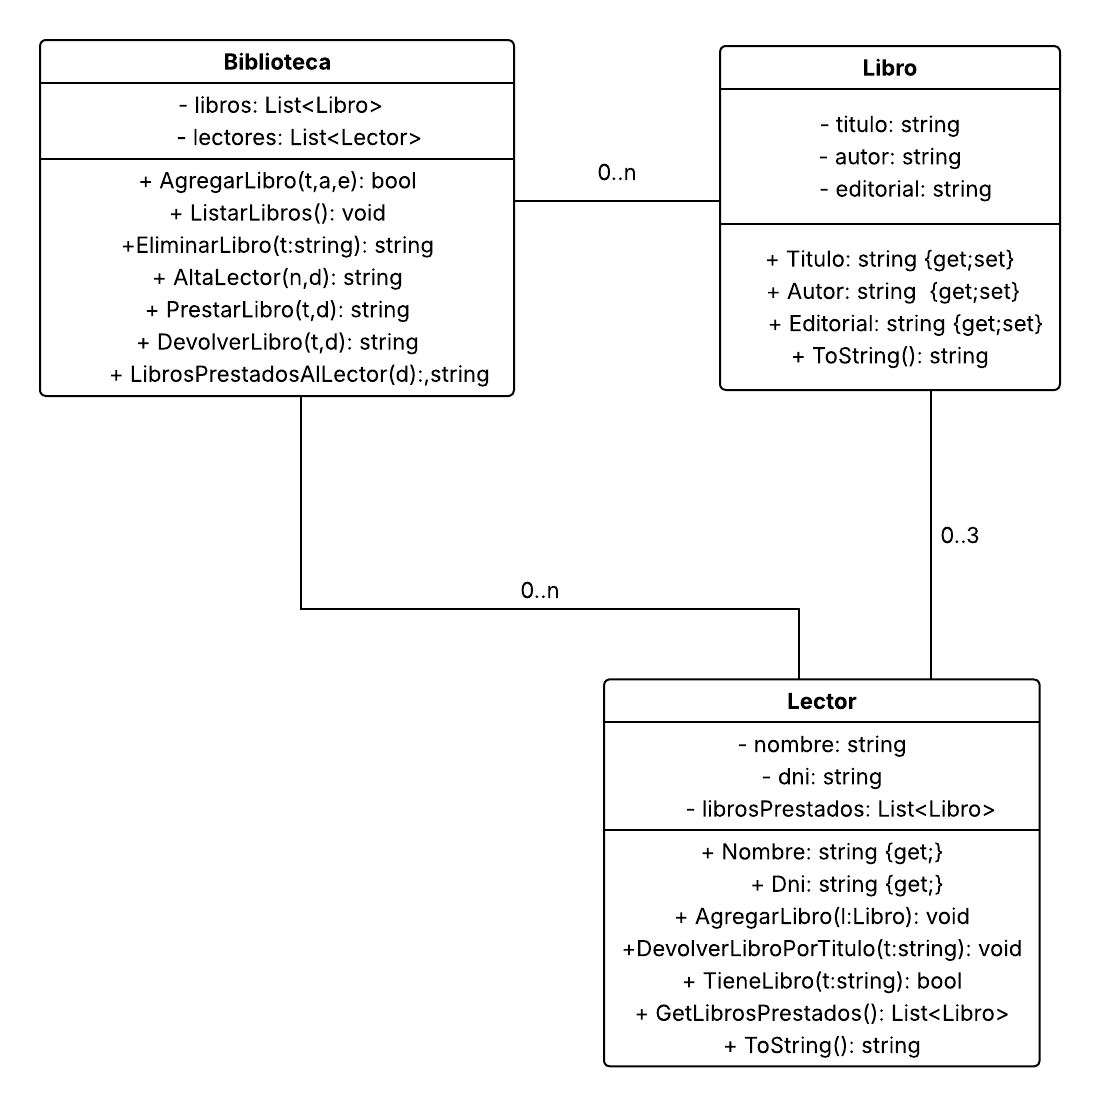
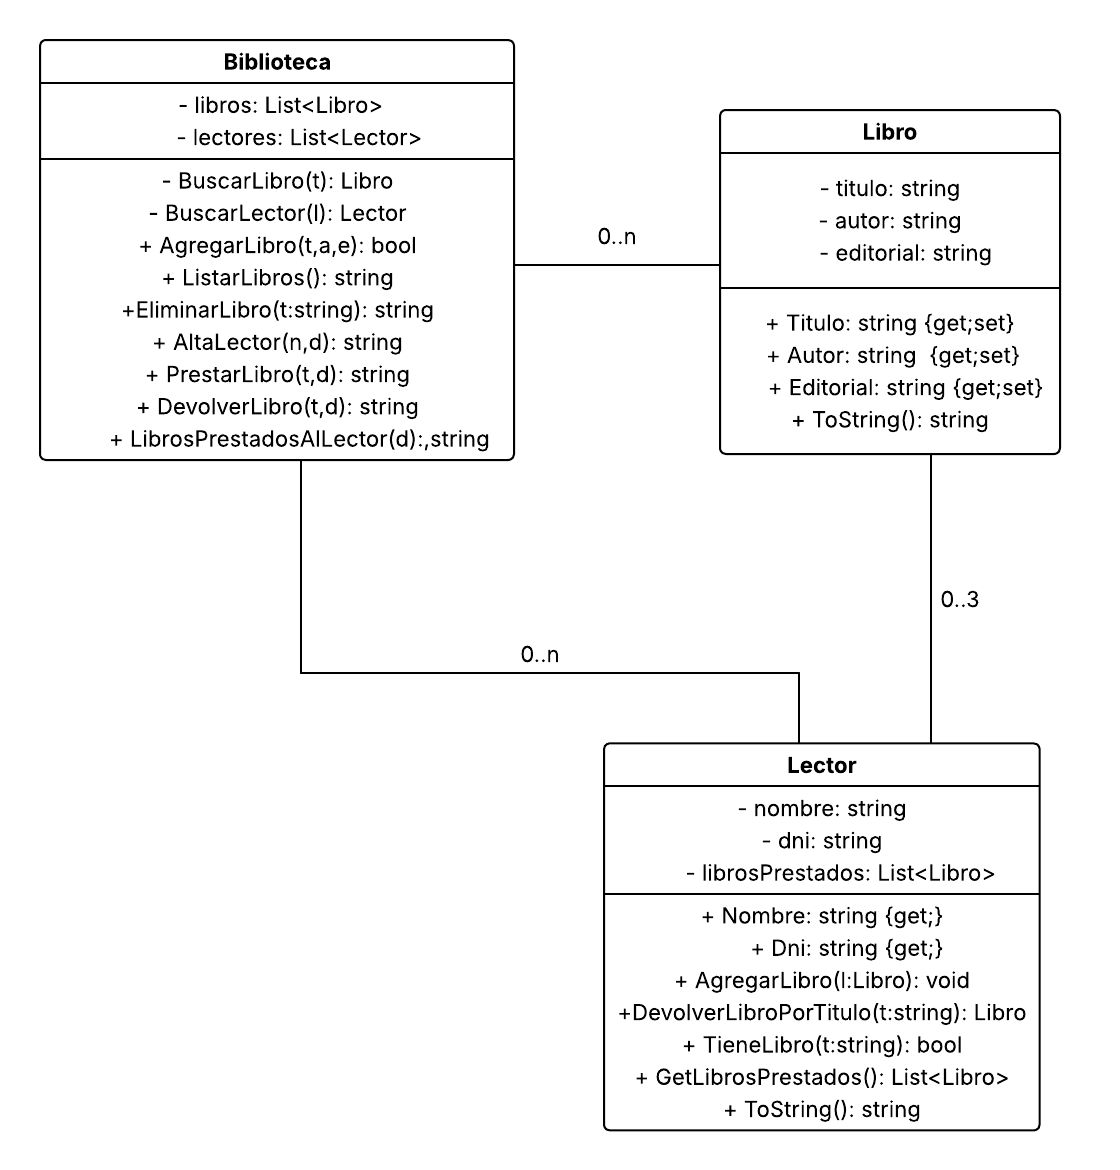
refactor: - Cambios y refactorización en Biblioteca

diff --git a/BibliotecaTP/Colecciones/Biblioteca.cs b/BibliotecaTP/Colecciones/Biblioteca.cs
@@ -4,7 +4,7 @@
     {
         private readonly List<Libro> libros;
         private readonly List<Lector> lectores;
-
+        private const int topePrestamos = 3;
         public Biblioteca()
         {
             libros = [];
@@ -28,20 +28,22 @@
             return true;
         }
 
-        public void ListarLibros()
+        public string ListarLibros()
         {
             if (libros.Count == 0)
             {
-                Console.WriteLine("No hay libros en la biblioteca.");
-                return;
+                return "No hay libros en la biblioteca.";
             }
 
-            Console.WriteLine("Libros en la biblioteca:");
+            string resultado = "Libros en la biblioteca:\n";
             for (int i = 0; i < libros.Count; i++)
             {
-                Console.WriteLine($"[{i + 1}] {libros[i]}");
+                resultado += $"[{i + 1}] {libros[i]}\n";
             }
+
+            return resultado;
         }
+
 
         public string EliminarLibro(string titulo)
         {
@@ -75,7 +77,7 @@
             }
 
             // 2. Verificar que el lector no haya alcanzado el tope de préstamos (3 libros)
-            if (lectorSolicitante.GetLibrosPrestados().Count >= 3)
+            if (lectorSolicitante.GetLibrosPrestados().Count >= topePrestamos)
             {
                 return $"El lector con DNI {dni} ha alcanzado su tope de préstamos. \nTOPE DE PRESTAMO ALCANZADO";
             }
@@ -98,40 +100,26 @@
 
         public string DevolverLibro(string titulo, string dni)
         {
-            // 1. Buscar el lector por DNI
+            // 1. Buscar lector
             Lector? lectorSolicitante = BuscarLector(dni);
             if (lectorSolicitante == null)
             {
                 return $"No se puede devolver: lector con DNI {dni} no existe. \nLECTOR INEXISTENTE";
             }
 
-            // 2. Buscar el libro por título en la colección de libros del Lector
-            if (lectorSolicitante.TieneLibro(titulo) == false)
+            // 2. Intentar devolver libro
+            Libro? libroDevuelto = lectorSolicitante.DevolverLibroPorTitulo(titulo);
+            if (libroDevuelto == null)
             {
                 return $"El lector con DNI {dni} no tiene el libro '{titulo}'. \nEL LIBRO INFORMADO NO LO TIENE EL LECTOR";
             }
 
-            // 3. OBTENER LOS DATOS DEL LIBRO
-            string autor = "";
-            string editorial = "";
-            foreach (Libro libro in lectorSolicitante.GetLibrosPrestados())
-            {
-                if (libro.Titulo.Equals(titulo, StringComparison.OrdinalIgnoreCase))
-                {
-                    autor = libro.Autor;
-                    editorial = libro.Editorial;
-                    break;
-                }
-            }
-
-            // 4. Quitar el libro del lector
-            lectorSolicitante.DevolverLibroPorTitulo(titulo);
-
-            // 5. AGREGAR EL LIBRO DE VUELTA A LA BIBLIOTECA
-            AgregarLibro(titulo, autor, editorial);
+            // 3. Agregar el libro de vuelta a la biblioteca
+            libros.Add(libroDevuelto);
 
             return $"Libro '{titulo}' devuelto correctamente y agregado al catálogo. \nDEVOLUCION EXITOSA";
         }
+
 
         public string LibrosPrestadosAlLector(string dni)
         {

diff --git a/BibliotecaTP/Program.cs b/BibliotecaTP/Program.cs
@@ -7,11 +7,11 @@ internal class Program
         Biblioteca biblioteca = new();
 
         CargarLibros(10, biblioteca);
-        biblioteca.ListarLibros();
+        Console.WriteLine(biblioteca.ListarLibros());
 
         Console.WriteLine("Eliminamos el Libro5 de la biblioteca:");
         Console.WriteLine(biblioteca.EliminarLibro("Libro5"));
-        biblioteca.ListarLibros();
+        Console.WriteLine(biblioteca.ListarLibros());
 
         // ultima consigna Semana 5
 
@@ -40,7 +40,7 @@ internal class Program
         Console.WriteLine(biblioteca.PrestarLibro("Libro2", "12345678"));
 
         Console.WriteLine("Listado actualizado de libros disponibles en la biblioteca:");
-        biblioteca.ListarLibros();
+        Console.WriteLine(biblioteca.ListarLibros());
 
         Console.WriteLine("TEST MUESTRA Los libros prestados al lector:");
         Console.WriteLine(biblioteca.LibrosPrestadosAlLector("12345678"));
@@ -58,7 +58,7 @@ internal class Program
         Console.WriteLine(biblioteca.LibrosPrestadosAlLector("12345678"));
 
         Console.WriteLine("Listado actualizado de libros disponibles en la biblioteca:");
-        biblioteca.ListarLibros();
+        Console.WriteLine(biblioteca.ListarLibros());
 
         Console.WriteLine("Presione una tecla para finalizar...");
         Console.ReadKey();

diff --git a/BibliotecaTP/Colecciones/Lector.cs b/BibliotecaTP/Colecciones/Lector.cs
@@ -53,20 +53,15 @@
             librosPrestados.Add(libro);
         }
 
-        // Método opcional: para devolver un libro (útil para futuros métodos)
-        public void DevolverLibroPorTitulo(string titulo)
+        // Método para devolver un libro
+        public Libro? DevolverLibroPorTitulo(string titulo)
         {
-            for (int i = 0; i < librosPrestados.Count; i++)
-            {
-                if (librosPrestados[i].Titulo.Equals(titulo, StringComparison.OrdinalIgnoreCase))
-                {
-                    librosPrestados.RemoveAt(i);
-                    break;
-                }
-            }
+            var libro = librosPrestados.FirstOrDefault(l => l.Titulo.Equals(titulo, StringComparison.OrdinalIgnoreCase));
+            if (libro != null) librosPrestados.Remove(libro);
+            return libro;
         }
 
-        // Método opcional: para verificar si tiene un libro específico
+        // Método para verificar si tiene un libro específico
         public bool TieneLibro(string titulo)
         {
             for (int i = 0; i < librosPrestados.Count; i++)
